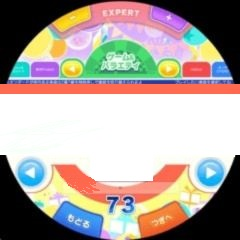
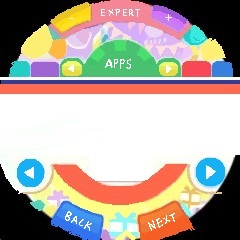
feat: menu graphic

diff --git a/code/main/boot.py b/code/main/boot.py
@@ -28,6 +28,7 @@ def enable_handlers(function):
         # Software debouncing logic (100ms)
         global previous_button_press
         if (time.ticks_ms() - previous_button_press) < 300:
+            previous_button_press = time.ticks_ms()
             return
         previous_button_press = time.ticks_ms()
         function(pin)
@@ -37,7 +38,14 @@ def enable_handlers(function):
 
 
 mf = MaiFace(ref)
-mf.load()
+
+ref["face"]["tft"].jpg("./menu_foreground.jpg", 0, 0)
+ref["face"]["tft"].jpg("./menu_item_indiv.jpg", 92, 88)
+ref["face"]["tft"].jpg("./menu_item_indiv_small_62.jpg", 120-28-5-35, 97)
+ref["face"]["tft"].jpg("./menu_item_indiv_small_62.jpg", 120-28-5-35-5-35, 97)
+ref["face"]["tft"].jpg("./menu_item_indiv_small_62.jpg", 120+28+5, 97)
+ref["face"]["tft"].jpg("./menu_item_indiv_small_62.jpg", 120+28+5+35+5, 97)
+#mf.load()
 enable_handlers(mf.on_press)
 # Periodically update display
 #tim = Timer(0) #timer id 0
